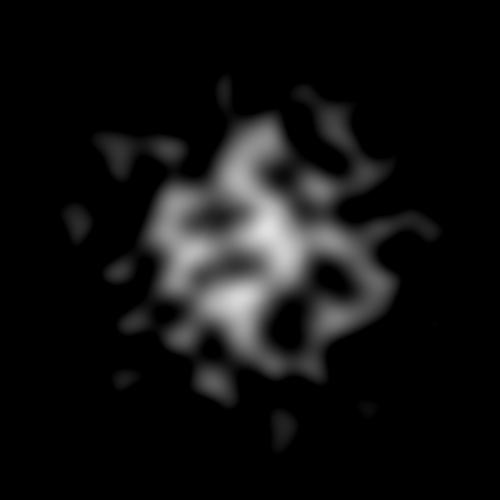
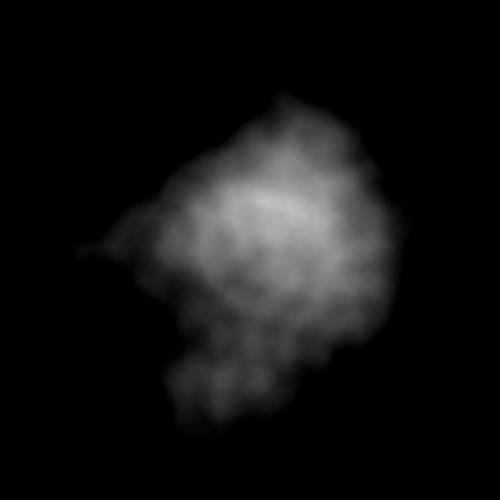
terrain layers

diff --git a/terrain/terrain.py b/terrain/terrain.py
@@ -51,30 +51,68 @@ class Cell(object):
     def __repr__(self):
         return "Cell({}, {}, moisture={})".format(self.height, self.material.name, self.moisture)
 
+    def json(self, max_height=None):
+        return [self.height/max_height if max_height else self.height, self.material.value]
+
+
+class Layer(object):
+    def __init__(self, seed, scale, height):
+        self.seed = seed
+        self.scale = scale
+        self.height = height
+
+        self.simplex = OpenSimplex(seed)
+
+    def get_pixel(self, x, y):
+        alt = (self.simplex.noise2d(x / self.scale, y / self.scale) + 1) / 2 * self.height
+
+        return alt
+
     def json(self):
-        return [self.height, self.material.value]
+        return {
+            "seed": self.seed,
+            "scale": self.scale,
+            "height": self.height
+        }
 
 
 class Terrain(object):
-    def __init__(self, seed, dimensions, height, moisture_seed=None, modifier=None):
-        self.seed = seed
-        self.moisture_seed = moisture_seed or seed
+    def __init__(self, dimensions, moisture_seed=None, modifier=None):
+        self.layers = []
+        self.moisture_seed = moisture_seed or 0
+
+        self.max_height = 0
 
         self.modifiers = [modifier] if modifier else []
 
         self.dimensions = dimensions
-        self.height = height
         self.bounds = [(-dimensions[0] / 2, -dimensions[1] / 2), (dimensions[0] / 2, dimensions[1] / 2)]
 
-        self.simplex = OpenSimplex(seed)
+    def add_layer(self, layer):
+        self.layers.append(layer)
+
+        max_height = 0
+        for layer in self.layers:
+            max_height += layer.height
+
+        self.max_height = max_height
+
+    @classmethod
+    def from_config(cls, config):
+        t = Terrain(config.get("dimensions", (1000, 1000)), moisture_seed=config.get("moisture_seed"))
+
+        for layer in config["layers"]:
+            t.add_layer(Layer(layer["seed"], layer["scale"], layer["height"]))
+
+        return t
 
     @property
     def config(self):
         return {
-            "seed": self.seed,
+            "layers": [layer.json() for layer in self.layers],
             "moisture_seed": self.moisture_seed,
 
-            "height": self.height,
+            "height": self.max_height,
             "dimensions": self.dimensions,
             "bounds": self.bounds
         }
@@ -83,10 +121,14 @@ class Terrain(object):
         self.modifiers.append(func)
 
     def get_pixel(self, x, y):
-        v = Cell((self.simplex.noise2d(x / 150, y / 150) + 1) / 2, Material.Ground)
+        alt = sum([layer.get_pixel(x, y) for layer in self.layers])
+
+        v = Cell(alt / self.max_height, Material.Ground)
 
         for func in self.modifiers:
             v = func(v, (x, y), self.config)
+
+        v.height = v.height * self.max_height
 
         return v
 
@@ -101,6 +143,3 @@ class Terrain(object):
             rows.append(row)
 
         return rows
-
-
-

diff --git a/server/terrain/__init__.py b/server/terrain/__init__.py
@@ -1,5 +1,6 @@
 from flask import Blueprint, request, jsonify
 import sys
+import json
 
 sys.path.append("./../../")
 
@@ -11,13 +12,13 @@ terrain_bp = Blueprint("terrain", __name__)
 
 @terrain_bp.route("/chunk")
 def get_chunk():
-    seed = int(request.args["seed"])
-    x0 = int(request.args["x0"])
-    y0 = int(request.args["y0"])
-    x1 = int(request.args["x1"])
-    y1 = int(request.args["y1"])
+    config = json.loads(request.args["config"])
 
-    terr = Terrain(seed, (2000, 2000), 256, modifier=circle_island())
+    x0, y0 = int(request.args["x0"]), int(request.args["y0"])
+    x1, y1 = int(request.args["x1"]), int(request.args["y1"])
+
+    terr = Terrain.from_config(config)
+    terr.add_modifier(circle_island())
 
     chunk = terr.get_chunk(x0, y0, x1, y1)
 
@@ -27,8 +28,11 @@ def get_chunk():
         n_row = []
 
         for cell in row:
-            n_row.append(cell.json())
+            n_row.append(cell.json(max_height=terr.max_height))
 
         json_chunk.append(n_row)
 
-    return jsonify(json_chunk)
+    return jsonify({
+        "height": terr.max_height,
+        "data": json_chunk
+    })

diff --git a/draw.py b/draw.py
@@ -5,7 +5,31 @@ from PIL import Image
 
 seed = 1
 
-terr = Terrain(seed, (2000, 2000), 256, modifier=circle_island())
+config = {
+    "layers": [
+        {
+            "seed": 1,
+            "scale": 500,
+            "height": 350
+        },
+        {
+            "seed": 34,
+            "scale": 100,
+            "height": 70
+        },
+        {
+            "seed": 66,
+            "scale": 33,
+            "height": 10
+        }
+    ],
+
+    "dimensions": [2000, 2000],
+
+}
+
+terr = Terrain.from_config(config)
+terr.add_modifier(circle_island())
 
 img = Image.new("RGB", (500, 500))
 
@@ -13,11 +37,11 @@ pix = img.load()
 
 for x in range(0, 500):
     for y in range(0, 500):
-        alt = terr.get_pixel(x*4-1000, y*4-1000).height
+        alt = terr.get_pixel(x * 4 - 1000, y * 4 - 1000).height
 
-        pix[x, y] = (int(alt*255),)*3
+        pix[x, y] = (int((alt / terr.max_height) * 255),) * 3
 
-    if x%100 == 0:
+    if x % 100 == 0:
         print(x)
 
 img.save("heightmap.jpg")
